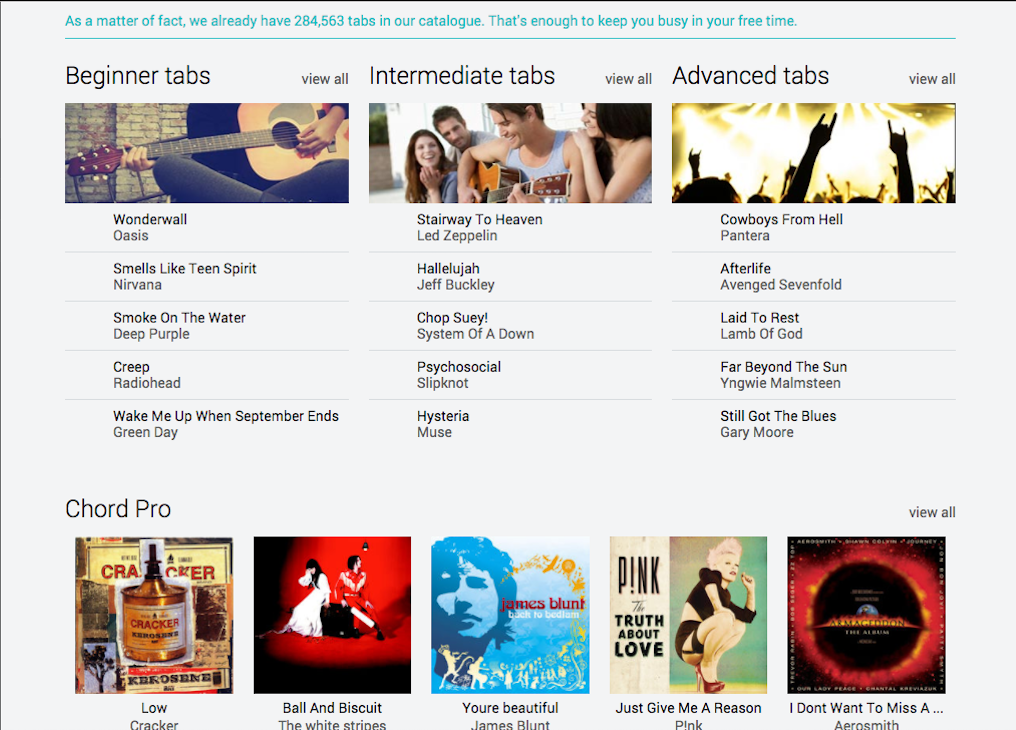
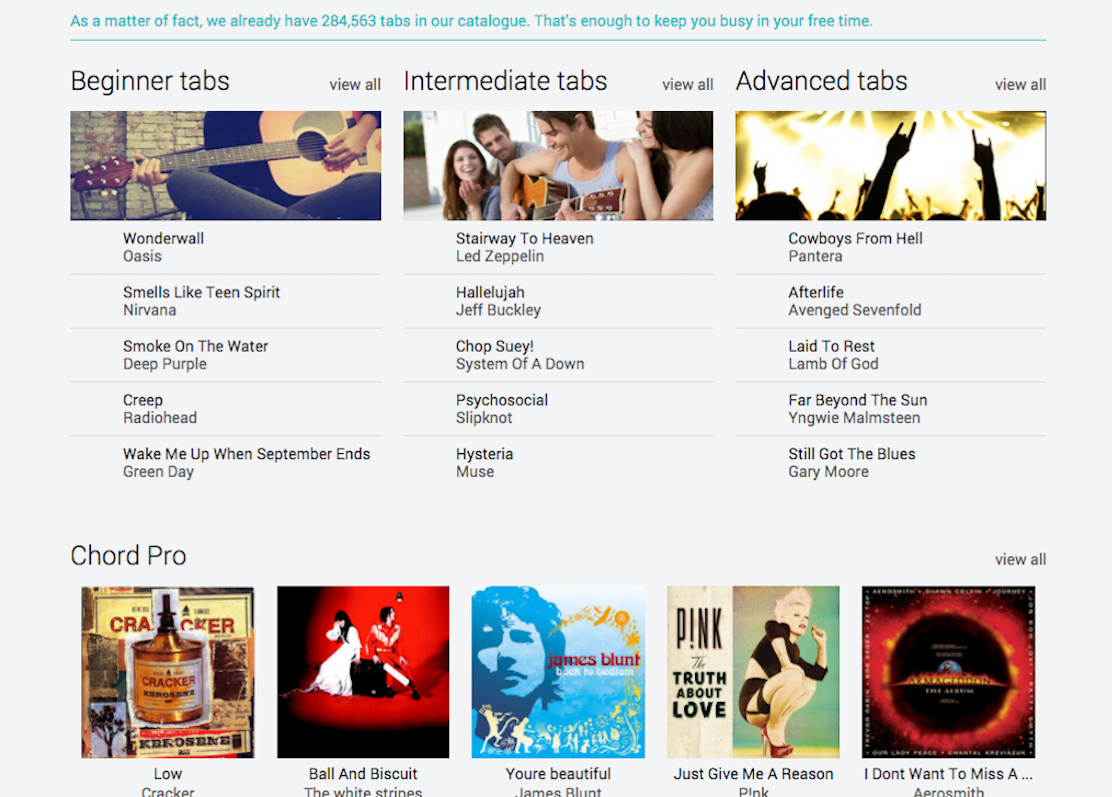
Creates tile layout for desktop widths, adds hover effects.

diff --git a/styles.css b/styles.css
@@ -79,10 +79,6 @@ body {
 	text-align: center;
 }
 
-.signup-form {
-	
-}
-
 .email-input {
 	display: block;
 	width: 220px;
@@ -131,26 +127,33 @@ body {
 .nav {
 	width: 100%;
 	height: 44px;
-	color: #fff;
+	color: #92b3e8;
+	font-weight: bold;
+	font-size: 0.9em;
 	background-color: #000;
 	position: fixed;
 	top: 0;
 	z-index: 0;
-	/*margin-top: 15px;*/
 	padding-top: 15px;
 	display: flex;
 	justify-content: space-around;
 }
 
 .nav-item {
-	font-weight: lighter;
+	transition: color 0.1s;
+}
+
+.nav-item:hover {
+	color: #fff;
+	cursor: pointer;
 }
 
 .about-container {
 	/*position: relative;*/
 	color: #fff;
 	font-weight: lighter;
-	margin: 5px auto 0 auto;
+	/*margin: 5px auto 0 auto;*/
+	margin: 0 auto;
 	padding: 5px;
 	width: 100%;
 	background: linear-gradient(
@@ -164,12 +167,16 @@ body {
 
 .about-container p {
 	text-align: center;
-	margin: 25px 0;
+	/*margin: 25px 0;*/
 }
 
 .about-content {
 	margin: 0 auto;
 	width: 90%;
+}
+
+.welcome {
+	margin: 25px 0;
 }
 
 .join {
@@ -180,7 +187,9 @@ body {
 .about-list {
 	line-height: 1.5em;
 	margin: 0 auto;
-	width: 90%;
+	width: 85%;
+	text-align: justify;
+	text-justify: inter-word;
 }
 
 .about-list li {
@@ -193,8 +202,13 @@ body {
 
 .why-wait {
 	font-size: 1.2em;
-	padding-top: 20px;
-	margin-bottom: 0px;
+	padding-top: 10px;
+	margin-bottom: 10px;
+}
+
+.get-playing {
+	margin: 10px 0 15px 0;
+	font-size: 1.3em;
 }
 
 .title {
@@ -202,8 +216,8 @@ body {
 }
 
 .tiles-main-container {
-	margin: 2px auto;
-	width: 99%;
+	margin: 2px auto 5px auto;
+	width: 97%;
 	display: flex;
 	justify-content: center;
 	flex-wrap: wrap;
@@ -212,7 +226,7 @@ body {
 .tile-container {
 	width: 100%;
 	height: 300px;
-	margin: 2px 0;
+	margin: 4px 0;
 	background-size: cover;
 	background-position: center;
 }
@@ -226,7 +240,7 @@ body {
 }
 .screenshot-catalogue {
 	background-image: url('images/tab-viewer-screenshot-catalogue.png');
-	background-position: top;
+	/*background-position: top;*/
 }
 
 /* Mobile-First Media Queries */
@@ -243,7 +257,15 @@ body {
 	}
 
 	.about-list {
-		width: 75%;
+		width: 65%;
+	}
+
+	.tile-container {
+		transition: all 0.4s;
+	}
+
+	.tile-container:hover {
+		height: 330px;
 	}
 
 }
@@ -260,28 +282,43 @@ body {
 		width: 50%;
 	}
 
+	.tile-container {
+		width: 45%;
+		margin: 5px;
+	}
+
+	.tile-container:hover {
+		width: 50%;
+	}
+
 }
 
 @media all and (min-width: 992px) {
 
-/*	.modal-container {
-		min-width: ;
-		max-width: ;
-		min-height: ;
-		max-height: ;
+	.about-container {
+		width: 90%;
 	}
-*/
+
+	.about-list {
+		width: 45%;
+	}
+
+	.tile-container {
+		width: 30%;
+	}
+
+	.tile-container:hover {
+		width: 35%;
+	}
+
 }
 
 @media all and (min-width: 1200px) {
 
-/*	.modal-container {
-		min-width: ;
-		max-width: ;
-		min-height: ;
-		max-height: ;
+	.about-list {
+		width: 40%;
 	}
-*/
+
 }
 
 

diff --git a/index.html b/index.html
@@ -16,7 +16,7 @@
 		</div>
 		<div class="modal-body">
 			<p class="signup-call">Sign up today to gain instant access to over 200,000 peer-reviewed tabs.</p>
-			<form class="signup-form">
+			<form>
 				<input type="text" id="email" class="email-input" placeholder="Email address">
 				<input type="button" id="submit-form" class="signup-button" value="Go!">
 			</form>
@@ -37,7 +37,7 @@
 
 	<div class="about-container">
 		<div class="about-content">
-			<p>
+			<p class="welcome">
 				Welcome to <span class="title">UltimateTab.com</span>, the world's foremost guitar tablature site.
 			</p>
 			<p class="join">
@@ -50,14 +50,17 @@
 				<li>become a lifetime member for a single, one-time payment of <span class="price">$40 US</span></li>
 			</ul>
 			<p class="why-wait">
-				What are you waiting for? Get playing!
+				What are you waiting for?
 			</p>	
+			<p class="get-playing">
+				Get playing!
+			</p>
 		</div>
 	</div>
 
 	<div class="tiles-main-container">
-		<div class="tile-container screenshot-fingerboard"></div>	
 		<div class="tile-container screenshot"></div>	
+		<div class="tile-container screenshot-fingerboard"></div>	
 		<div class="tile-container screenshot-catalogue"></div>	
 	</div>
 		
